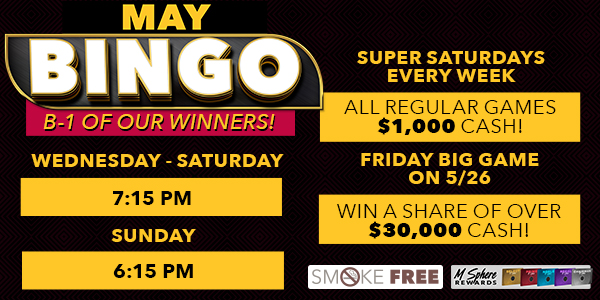
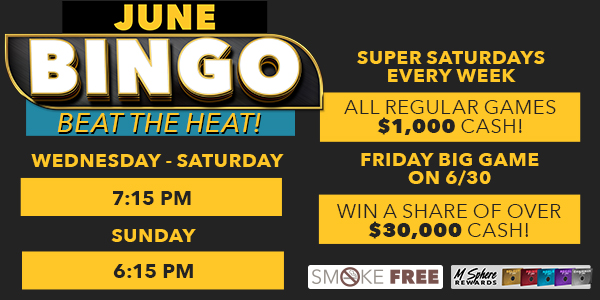
updated bingo promos and popup

diff --git a/src/services/functions/contact/contactFunction.js b/src/services/functions/contact/contactFunction.js
@@ -5,62 +5,86 @@ const getEmail = (value) => {
   switch (value) {
     // MRG CASES
     case 'Banquet Sales':
-      return ['mrgsales&catering@miccosukee.com'];
+      return ['asaunders@miccosukee.com', 'mrgsales&catering@miccosukee.com'];
     case 'Banquet/Catering':
-      return ['mrgsales&catering@miccosukee.com'];
+      return ['asaunders@miccosukee.com', 'mrgsales&catering@miccosukee.com'];
     case 'Bingo':
-      return ['alouie@miccosukee.com', 'jmedina@miccosukee.com'];
+      return [
+        'asaunders@miccosukee.com',
+        'alouie@miccosukee.com',
+        'jmedina@miccosukee.com',
+      ];
     case 'Child Care Center':
-      return ['glledes@miccosukee.com'];
+      return ['asaunders@miccosukee.com', 'glledes@miccosukee.com'];
     case 'Event & Meeting Planning':
-      return ['mrgsales&catering@miccosukee.com'];
+      return ['asaunders@miccosukee.com', 'mrgsales&catering@miccosukee.com'];
     case 'Event Tickets':
-      return ['sales@miccosukee.com'];
+      return ['asaunders@miccosukee.com', 'sales@miccosukee.com'];
     case 'Food & Beverage':
-      return ['F&BSupervisors@miccosukee.com'];
+      return ['asaunders@miccosukee.com', 'F&BSupervisors@miccosukee.com'];
     case 'Finance & Accounting':
-      return ['MIGAccountingSupervisors@miccosukee.com'];
+      return [
+        'asaunders@miccosukee.com',
+        'MIGAccountingSupervisors@miccosukee.com',
+      ];
     case 'Food & Beverage – Comment Card':
-      return ['F&BSupervisors@miccosukee.com'];
+      return ['asaunders@miccosukee.com', 'F&BSupervisors@miccosukee.com'];
     case 'Gaming Machines':
       return [
+        'asaunders@miccosukee.com',
         'Bking@miccosukee.com',
         'gbotero@miccosukee.com',
         'crodriguez@miccosukee.com',
       ];
     case 'Group Sales':
-      return ['ggalarza@miccosukee.com', 'kwhiting@miccosukee.com'];
+      return [
+        'asaunders@miccosukee.com',
+        'ggalarza@miccosukee.com',
+        'kwhiting@miccosukee.com',
+      ];
     case 'Promotions & Special Events':
-      return ['rduncan@miccosukee.com'];
+      return [
+        'asaunders@miccosukee.com',
+        'iguerra@miccosukee.com',
+        'rduncan@miccosukee.com',
+      ];
     case 'Player’s Club':
-      return ['rduncan@miccosukee.com'];
+      return ['asaunders@miccosukee.com', 'rduncan@miccosukee.com'];
     case 'Room Rates & Reservations':
       return [
+        'asaunders@miccosukee.com',
         'tmitchelson@miccosukee.com',
         'reservations@miccosukee.com',
         'kwhiting@miccosukee.com',
       ];
     case 'Spa & Salon':
-      return ['kwhiting@miccosukee.com', 'cklimekoski@miccosukee.com'];
+      return [
+        'asaunders@miccosukee.com',
+        'kwhiting@miccosukee.com',
+        'cklimekoski@miccosukee.com',
+      ];
     case 'Valet Services':
       return [
+        'asaunders@miccosukee.com',
         'tmitchelson@miccosukee.com',
         'kwhiting@miccosukee.com',
         'transportation@miccosukee.com',
       ];
     case 'Human Resources':
-      return ['damaro@miccosukee.com'];
+      return ['asaunders@miccosukee.com', 'damaro@miccosukee.com'];
     case 'Other':
       return [
+        'asaunders@miccosukee.com',
         'KWhiting@miccosukee.com',
         'TMitchelson@miccosukee.com',
         'reservations@miccosukee.com',
       ];
     case 'Website Feedback':
-      return ['jronselli@miccosukee.com'];
+      return ['asaunders@miccosukee.com', 'jronselli@miccosukee.com'];
     // Media Inquiry
     case 'Media Inquiry':
       return [
+        'asaunders@miccosukee.com',
         'AFrye@miccosukee.com',
         'JenniferM@miccosukeetribe.com',
         'iguerra@miccosukee.com',

diff --git a/src/services/functions/popups/popupManager.js b/src/services/functions/popups/popupManager.js
@@ -80,15 +80,15 @@ const mrgPopup = {
   id: '02',
   showPopup: scheduler({
     start: {
-      year: '24',
-      month: 'March',
-      day: '28',
+      year: '23',
+      month: 'June',
+      day: '1',
       time: '',
     },
     end: {
-      year: '28',
-      month: 'April',
-      day: '29',
+      year: '23',
+      month: 'July',
+      day: '1',
       time: '',
     },
   }),

diff --git a/src/views/MRG/Pages/gaming/bingo/bingo.js b/src/views/MRG/Pages/gaming/bingo/bingo.js
@@ -90,7 +90,7 @@ const Bingo = () => {
                   </li>
                 </ul>
 
-                {isRunning([2023, 5, 1], [2023, 6, 1]) ? (
+                {isRunning([2023, 6, 1], [2023, 6, 30]) ? (
                   <img
                     style={{
                       width: '100%',
